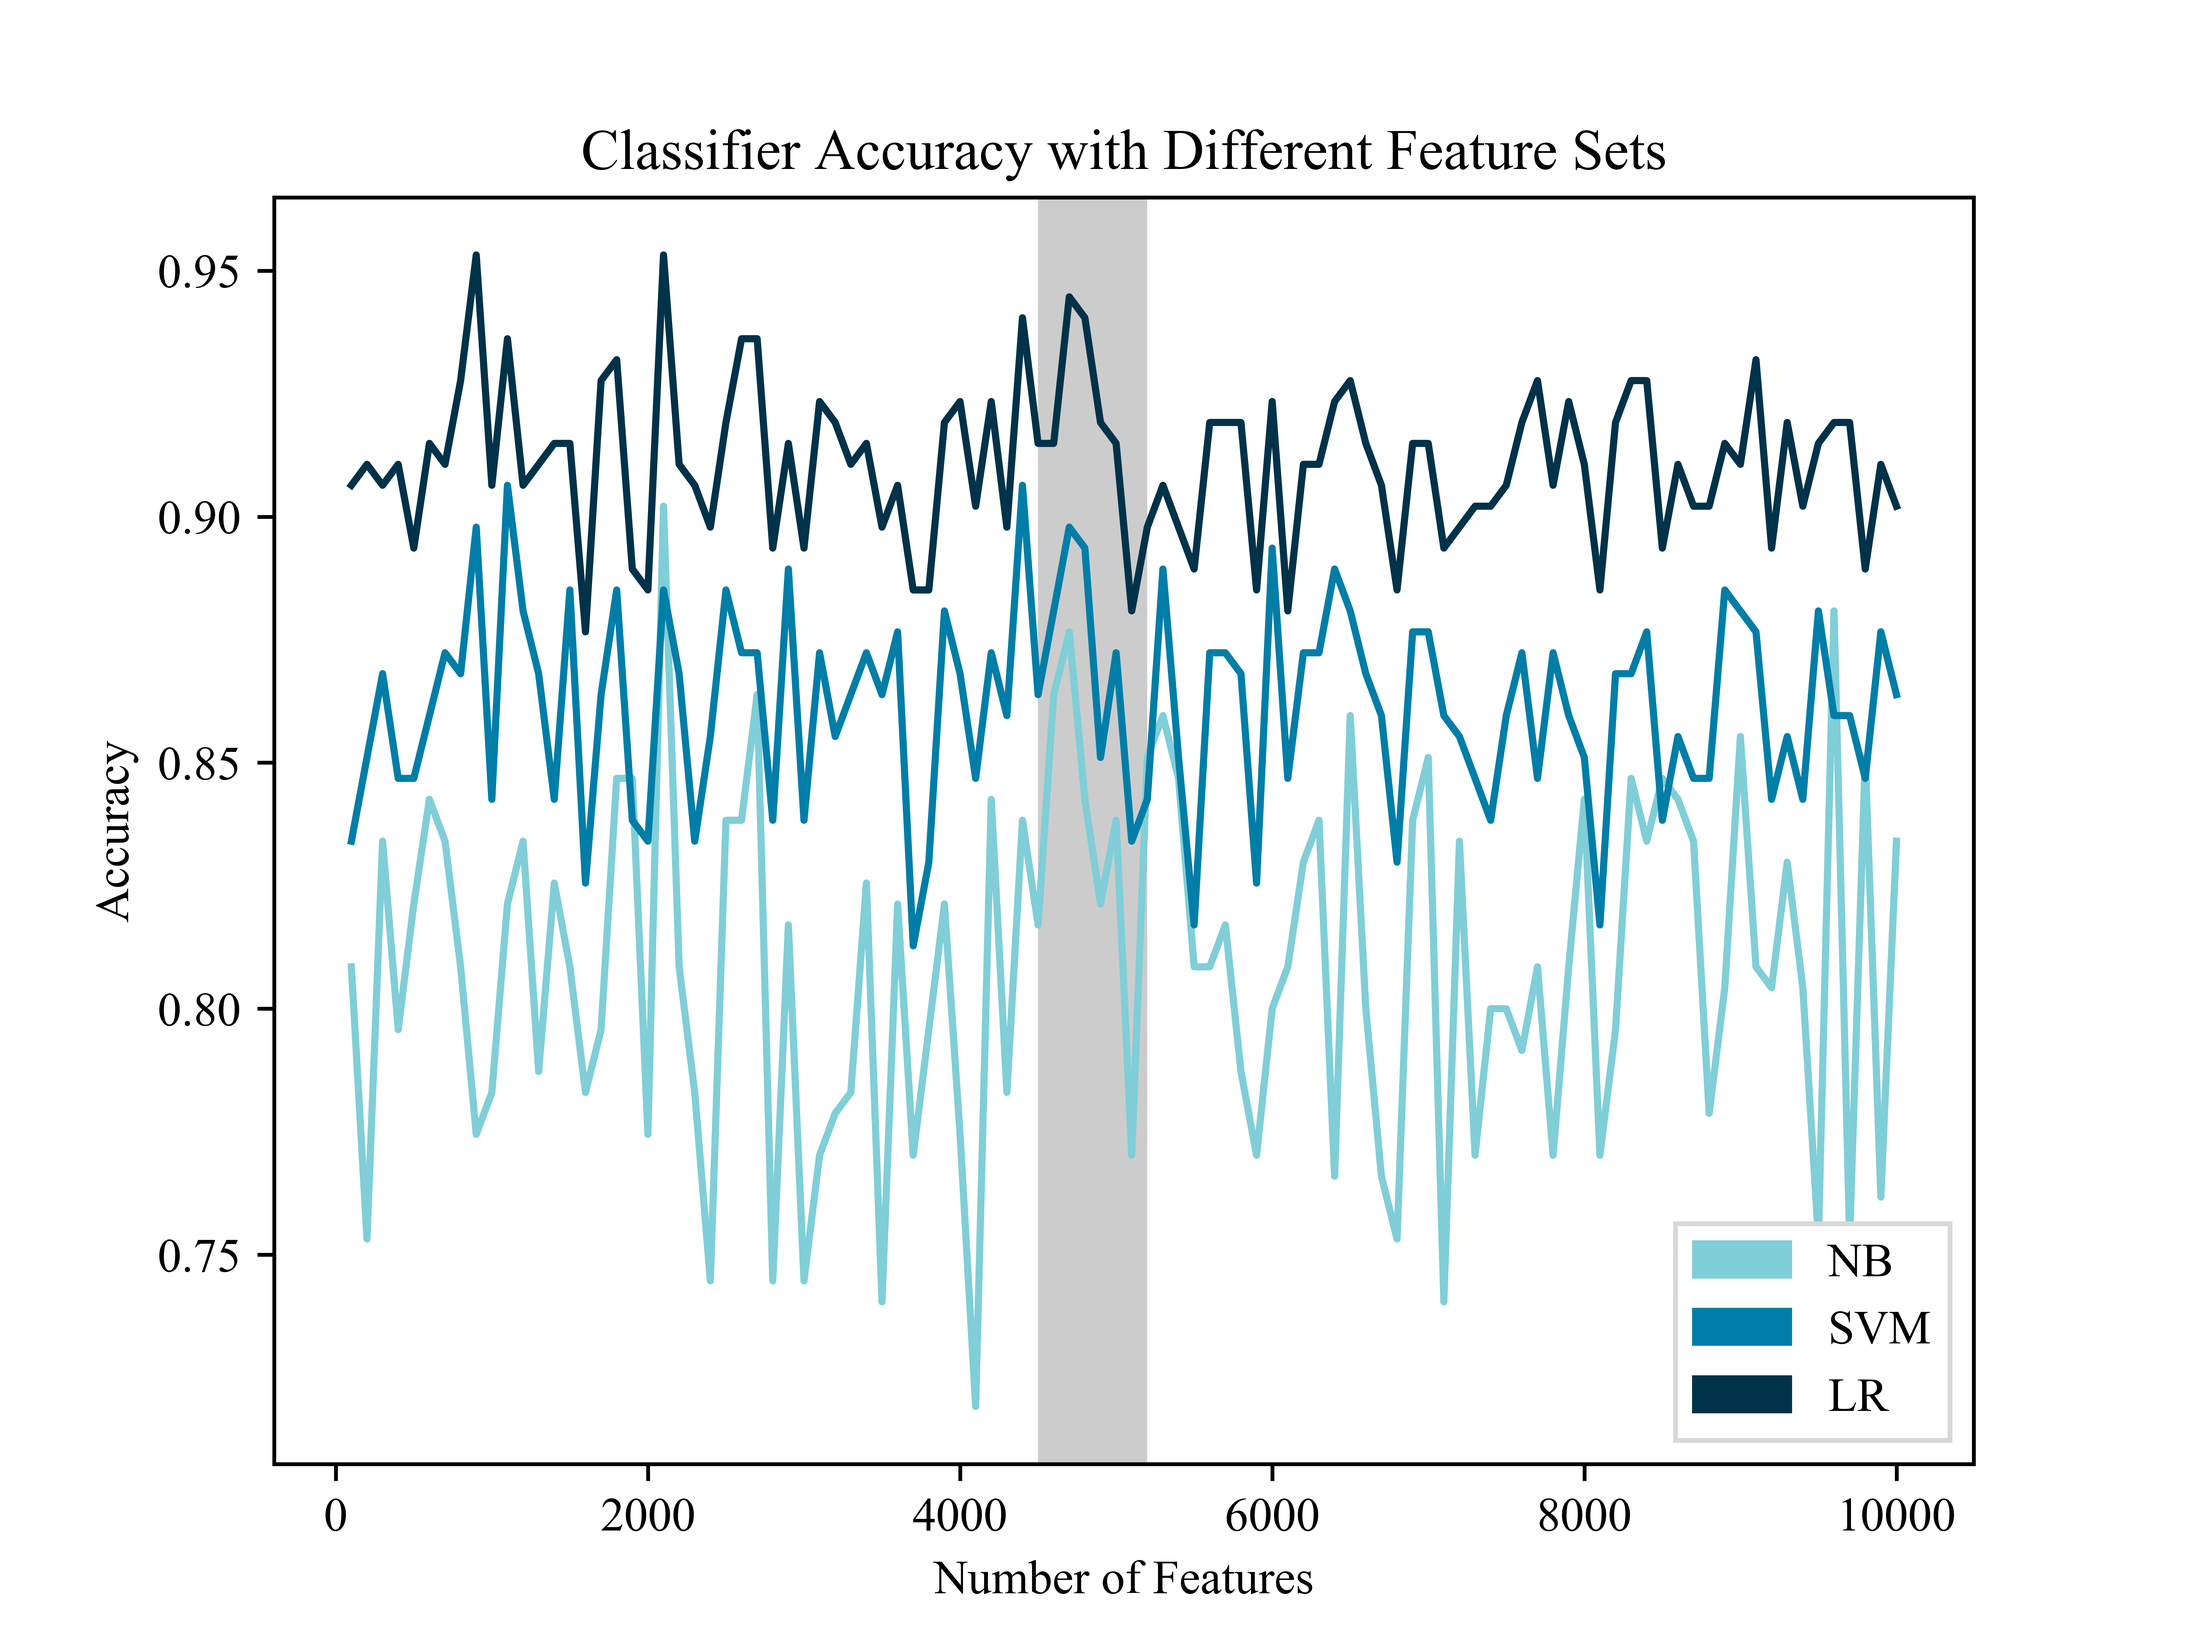
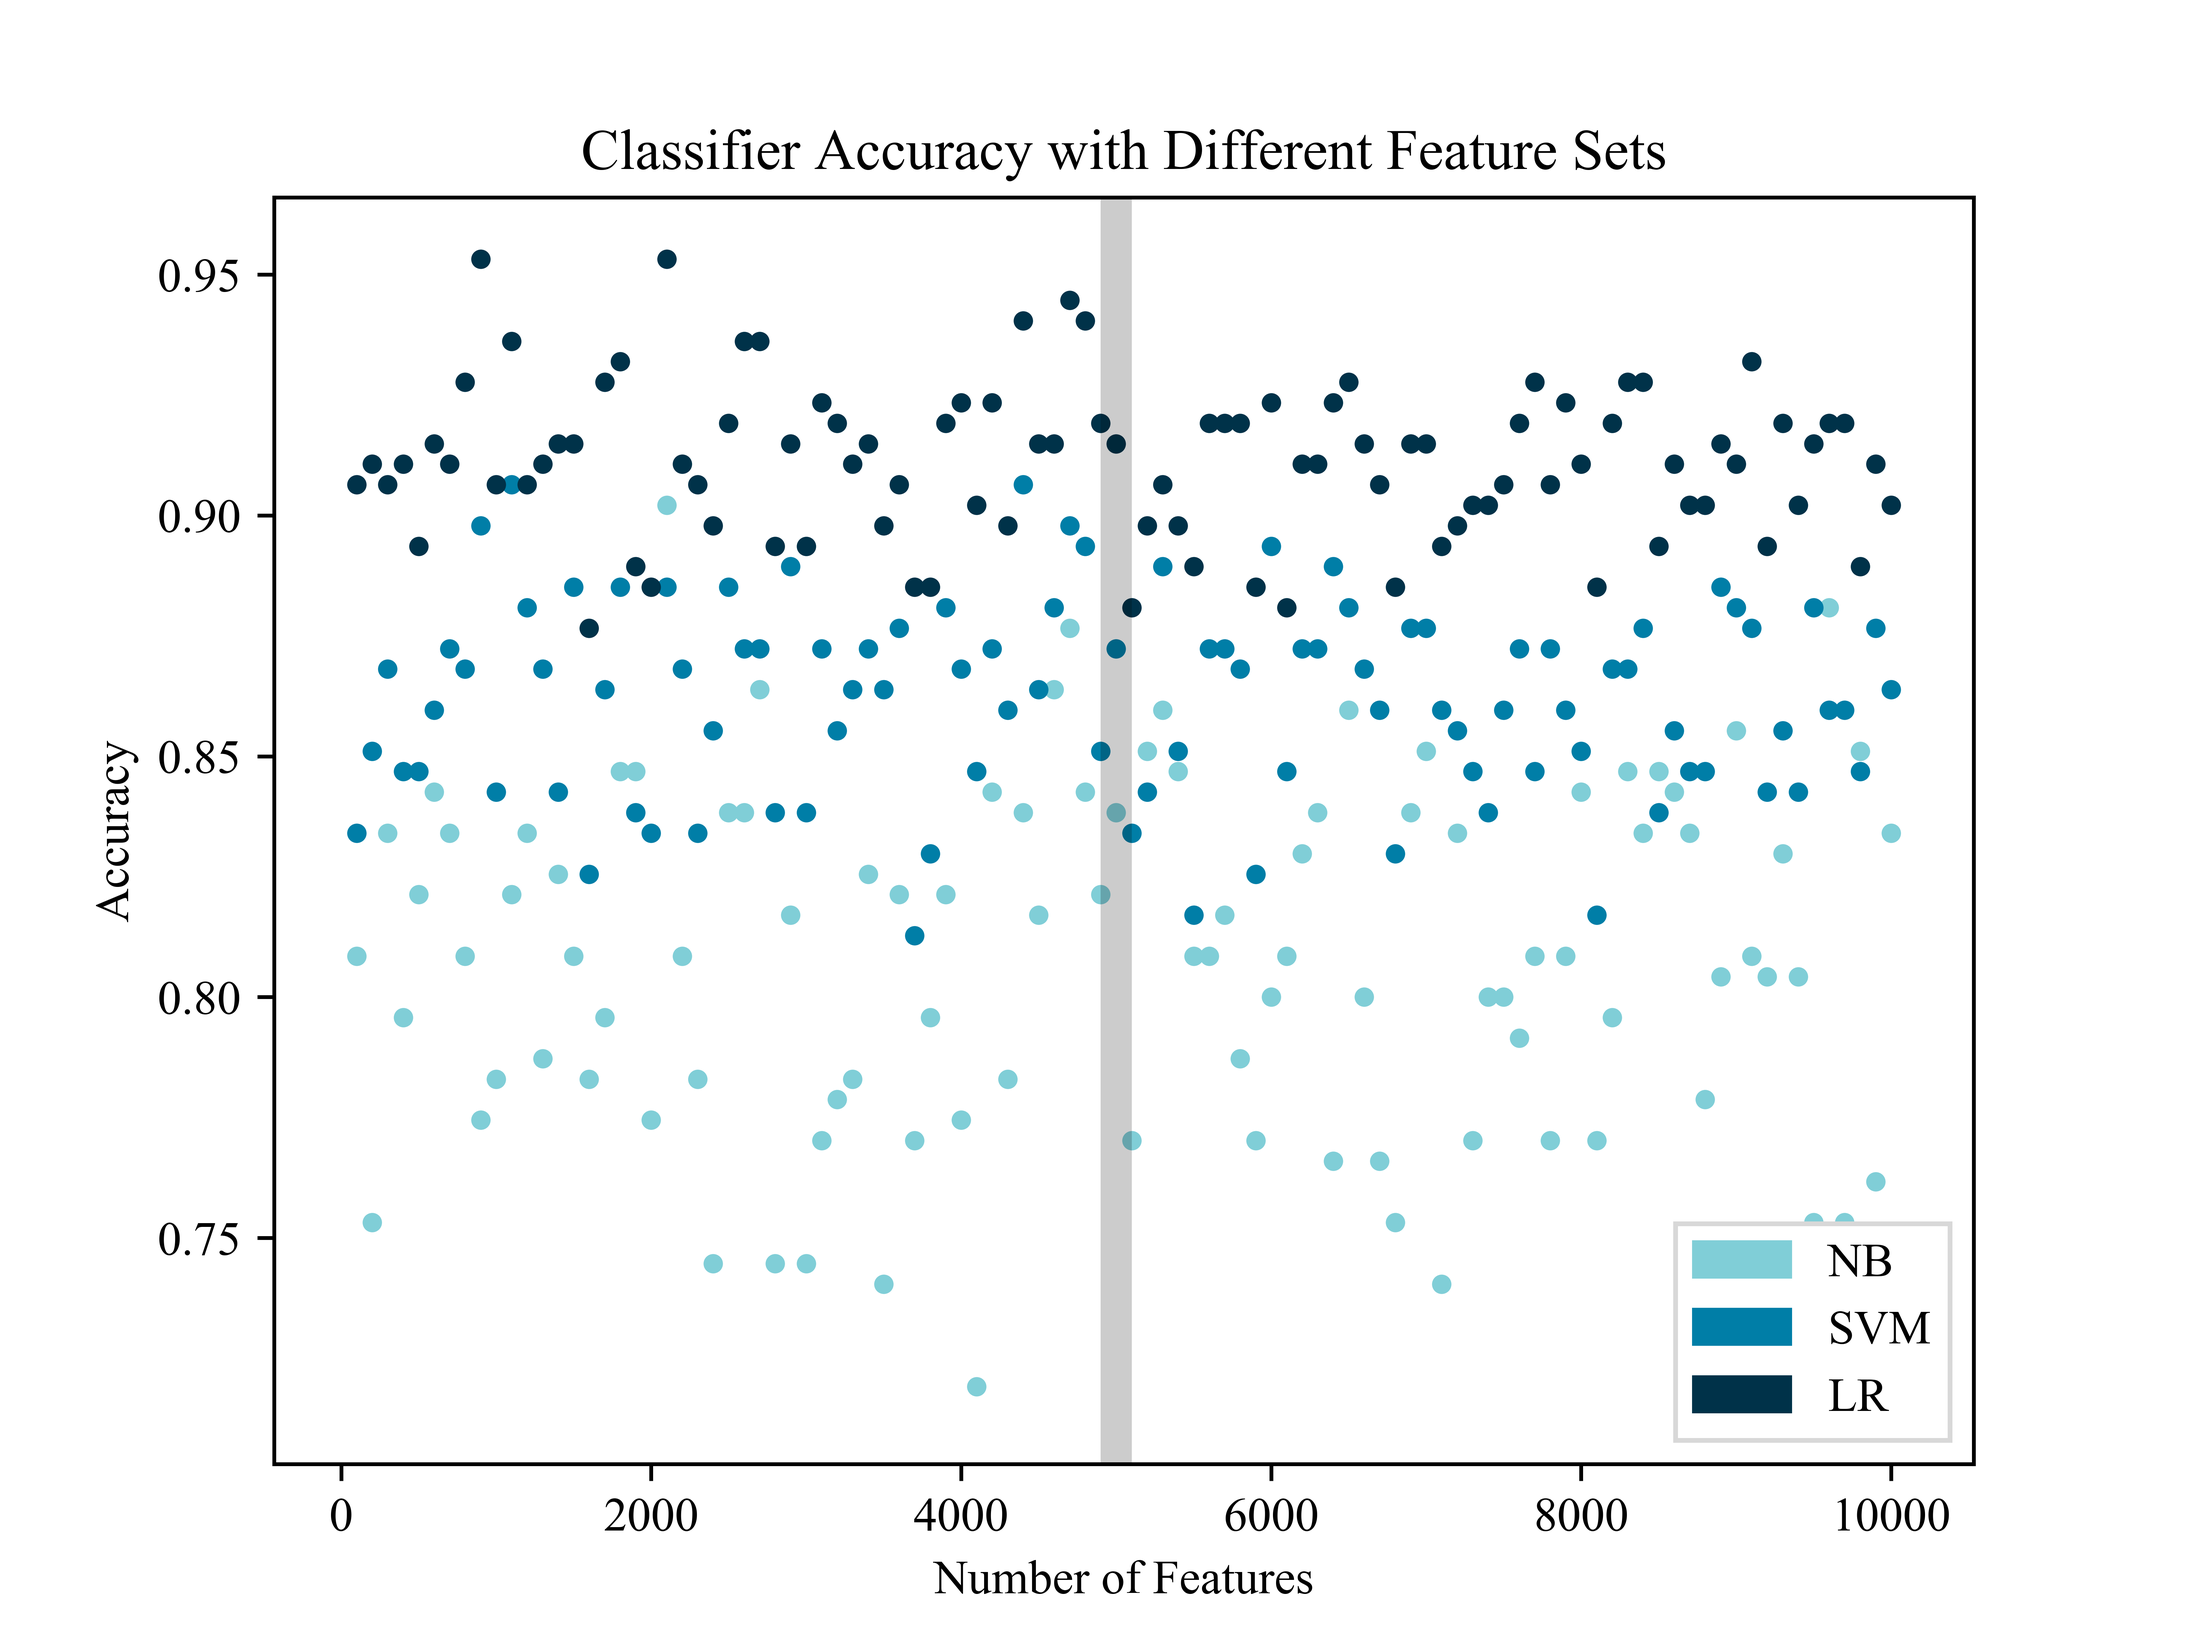
changed to scatter plot

diff --git a/graphs/iter_time.py b/graphs/iter_time.py
@@ -23,9 +23,9 @@ plt.xlabel('Number of Features')
 plt.ylabel('Time (sec)')
 
 # plots
-plt.plot(iters, nb_time, color='#80CED7')
-plt.plot(iters, svm_time, color='#007EA7')
-plt.plot(iters, lr_time, color='#003249')
+plt.scatter(iters, nb_time, s=np.pi * 3, color='#80CED7')
+plt.scatter(iters, svm_time, s=np.pi * 3, color='#007EA7')
+plt.scatter(iters, lr_time, s=np.pi * 3, color='#003249')
 
 # legend
 l1 = mpatches.Patch(label='NB', color='#80CED7')
@@ -33,7 +33,7 @@ l2 = mpatches.Patch(label='SVM', color='#007EA7')
 l3 = mpatches.Patch(label='LR', color='#003249')
 
 # focus box
-plt.axvspan(4500, 5200, linewidth=0, color='#000000', alpha=0.2)
+plt.axvspan(4900, 5100, linewidth=0, color='#000000', alpha=0.2)
 
 # legend
 plt.legend(

diff --git a/graphs/iter_accuracy.py b/graphs/iter_accuracy.py
@@ -23,9 +23,9 @@ plt.xlabel('Number of Features')
 plt.ylabel('Accuracy')
 
 # plots
-plt.plot(iters, nb_avg, color='#80CED7')
-plt.plot(iters, svm_avg, color='#007EA7')
-plt.plot(iters, lr_avg, color='#003249')
+plt.scatter(iters, nb_avg, s=np.pi * 3, color='#80CED7')
+plt.scatter(iters, svm_avg, s=np.pi * 3, color='#007EA7')
+plt.scatter(iters, lr_avg, s=np.pi * 3, color='#003249')
 
 # legend
 l1 = mpatches.Patch(label='NB', color='#80CED7')
@@ -33,7 +33,7 @@ l2 = mpatches.Patch(label='SVM', color='#007EA7')
 l3 = mpatches.Patch(label='LR', color='#003249')
 
 # focus box
-plt.axvspan(4500, 5200, linewidth=0, color='#000000', alpha=0.2)
+plt.axvspan(4900, 5100, linewidth=0, color='#000000', alpha=0.2)
 
 # legend
 plt.legend(
